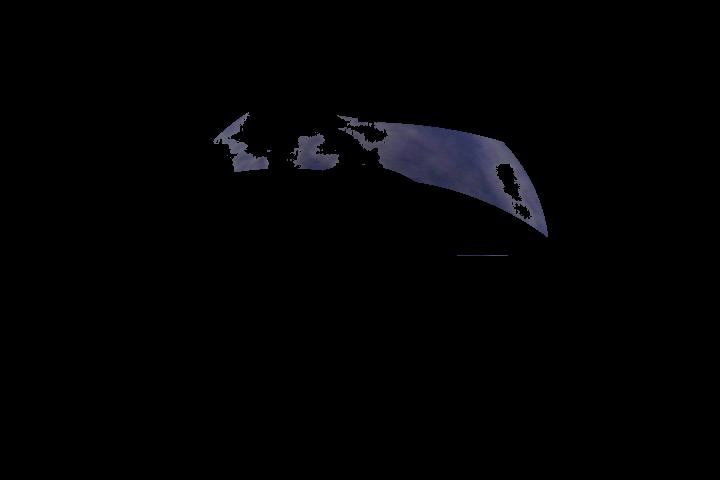
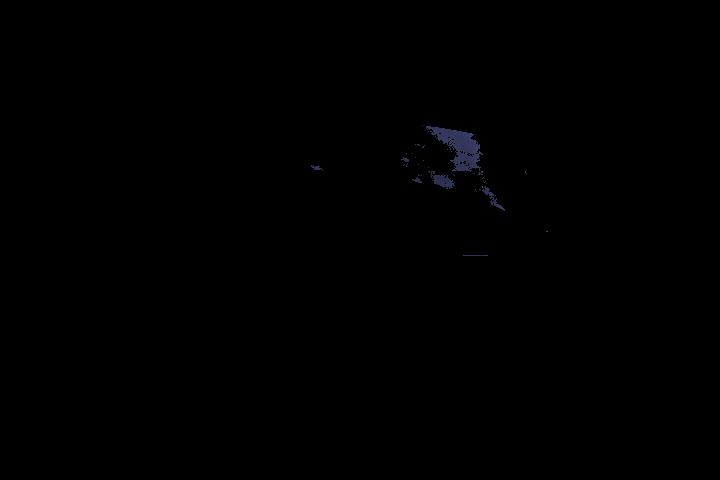
changed is_blue_sky pixel calculation

Changed region(s): [[0.4583, 0.2188, 0.7639, 0.5], [0.275, 0.25, 0.4889, 0.375]]

diff --git a/utils.py b/utils.py
@@ -33,7 +33,9 @@ def is_blue_sky(pixel: Tuple) -> bool:
     avg = statistics.mean(pixel)
     std = statistics.stdev(pixel, xbar=avg)
 
-    return std / avg > 0.1
+    blue_minus_red = pixel[2] - pixel[0]
+
+    return std / avg > 0.3 and blue_minus_red > 40
 
 
 def selection_criteria(altitude: float, central_angle: float) -> bool:
